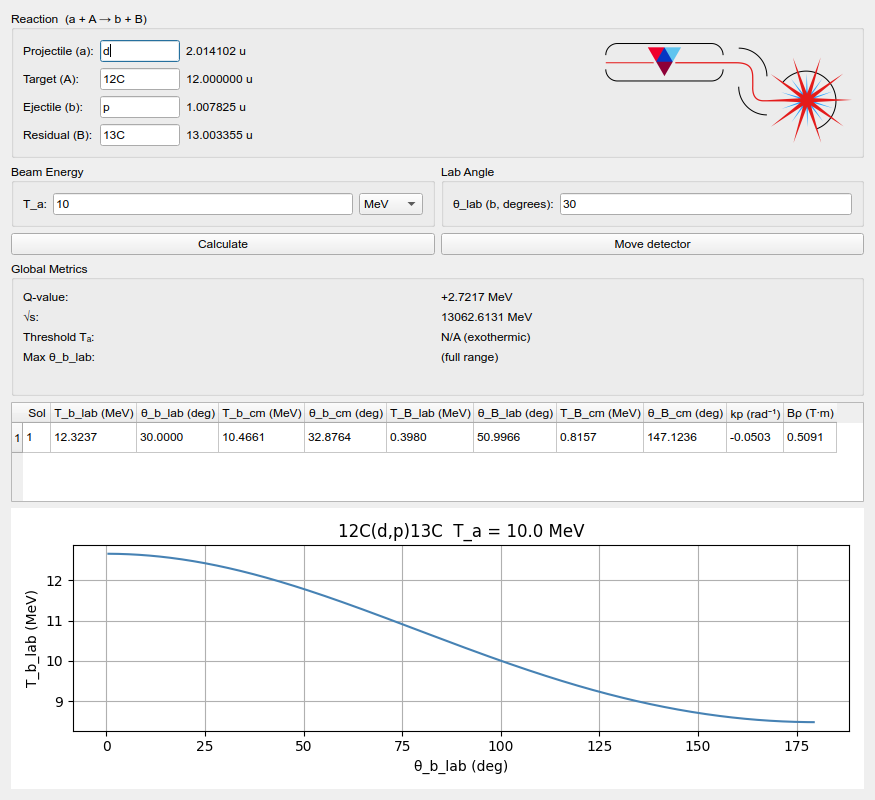
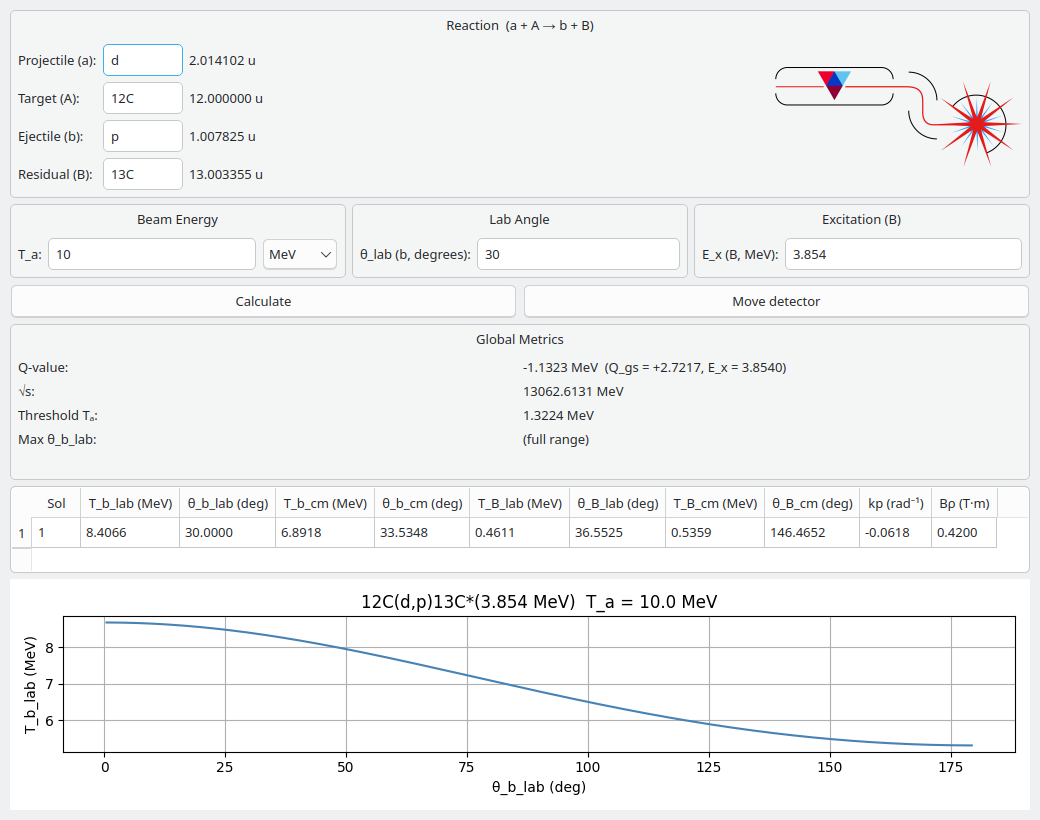
Update screenshot with an excited-state example

diff --git a/README.md b/README.md
@@ -2,7 +2,7 @@
 
 A desktop calculator for relativistic two-body nuclear reaction kinematics, `A(a,b)B`, using AME2020 atomic masses.
 
-![Screenshot of the app showing 12C(d,p)13C at 10 MeV](docs/screenshot.png)
+![Screenshot of the app showing 12C(d,p)13C*(3.854 MeV) at 10 MeV](docs/screenshot.png)
 
 ## Features
 
